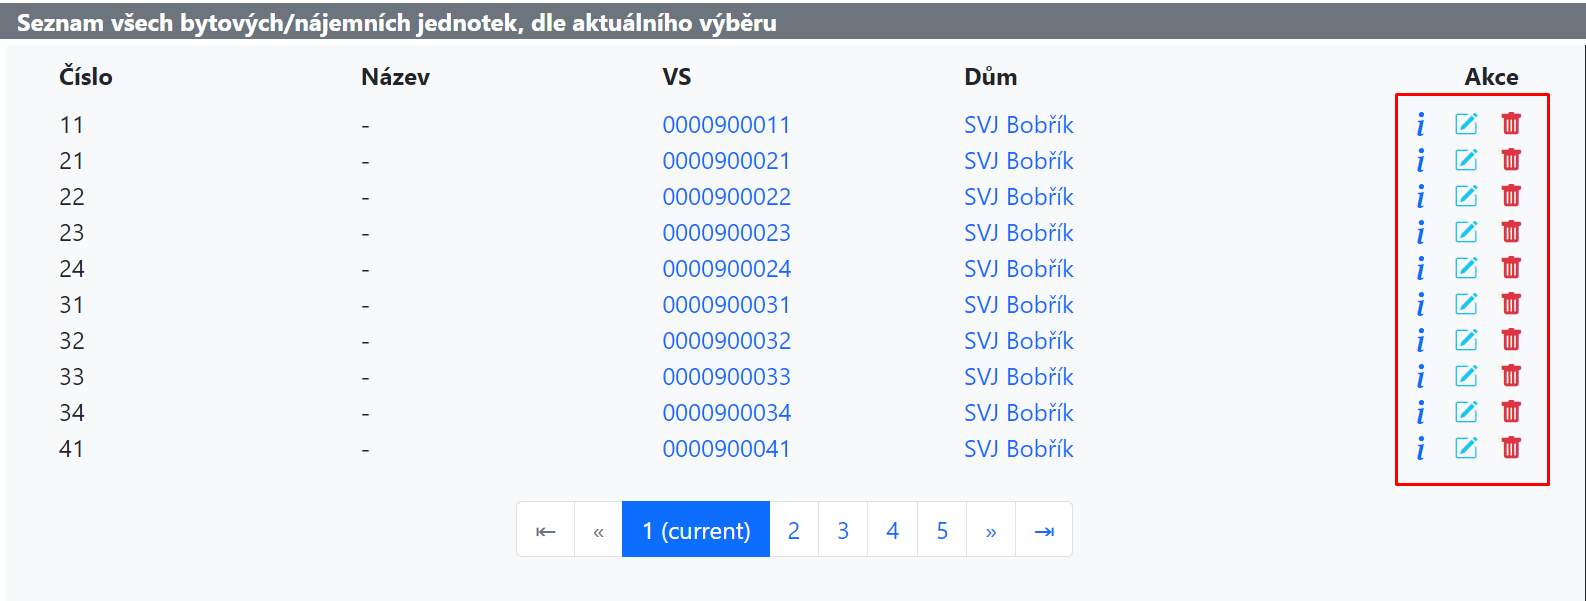
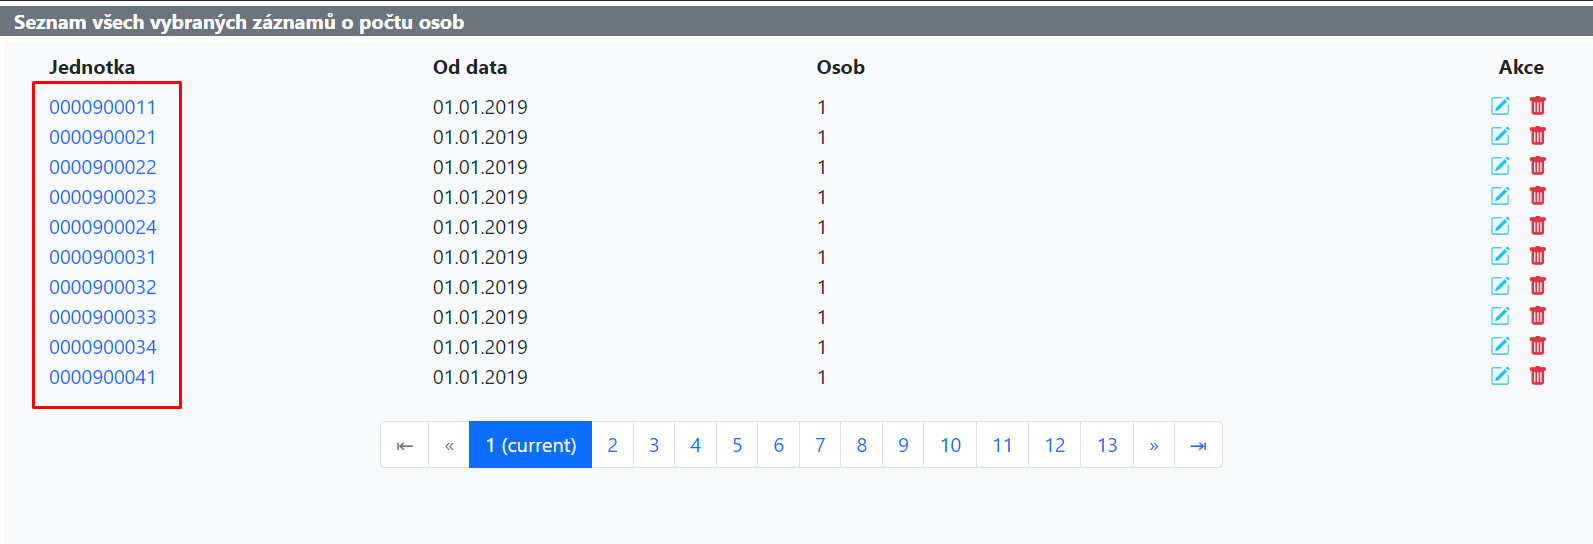
inline menu items finished

diff --git a/docs/misc/inline-menu-items.md b/docs/misc/inline-menu-items.md
@@ -5,15 +5,24 @@ description: Inline Menu Items
 
 An **inline menu** is a colection of links, typically renered as icon buttons. These can be found in pretty much every listing page throughout the application.
 
-Every object, with exceptions of course, has a **detail**, **update** and **delete** views associated with them. For that reason there are usually three icons (inline menu items) for each object in a listing page (as can be observed on the image below).
-
-![Example](example_menu_items.png)
-
 As of the time of writing this (September 2024), the `inline_menu_item.py` defines the following three template tags:
+
+`inline_menu_icon`
+:   Links rendered as icons
+
+`inline_menu_item`
+:   Links rendered as normal links. **Deprecated**
+
+`inline_menu_item_new`
+:   A replacement of the deprecated `inline_menu_item`   
 
 ### Inline Menu Icon
 
 The most widely used tag for inline menu items. The link is rendered as an icon for a better UX experience.
+
+Every object, with exceptions of course, has a **detail**, **update** and **delete** views associated with them. For that reason there are usually three icons (inline menu items) for each object in a listing page (as can be observed on the image below).
+
+![Example icons](example_menu_icons.png)
 
 ```Python title="Function signature"
 def inline_menu_icon(icon_type, url_address, tooltip=None, **kwargs):
@@ -68,4 +77,40 @@ The only mandatory parameters are the `url_address` and `icon_type`.
 
 # Red delete icon (bi bi-trash-fill) with the link /najemnijednotky/bytydelete/1/?sourcecaller=L&referraldumid=1
 {% inline_menu_icon 'delete' 'byty:najemnici-delete' 'Odpojit' get_pk=each.id sourcecaller='L' referraldumid=referral_dum.pk %}
+```
+
+### Inline Menu Item
+
+Inline menu items differ from their icon counterpart only in the way they are presented to the user, not as icons but as regular links (as can be seen on the image below).
+
+![Example items](example_menu_items.png)
+
+```Python title="Function signature"
+def inline_menu_item_new(link_text, url_address, style=None, **kwargs):
+    ...
+```
+
+The only mandatory parameters are the `link_text` and `url_address`.
+
+`link_text`
+:   The label of the link.
+
+`url_address`
+:   A reversible view name.
+
+    As the function accepts kwargs, **query parameters** can be passed in as regular kwargs (i.e. `query_param=value`).
+
+    As for **path parameters**, they just need a prefix of `get_` (i.e. `get_path_param=value`).
+
+`style`
+:   An optional list of classes.
+
+    Might be replaced for a `StyleModifier` in the future.
+
+```HTML title="Examples"
+# Link with the label depending on the value of "each.byt_id.variabilni" and link /najemnijednotky/pocetosoblist/?referralbytid=1
+{% inline_menu_item_new each.byt_id.variabilni 'byty:pocetosob-listing' referralbytid=each.byt_id.pk %}
+
+# Link with the label depending on the value of "each.sluzba.just_name" and link /sluzby/sluzbydefinicedetail/2/
+{% inline_menu_item_new each.sluzba.just_name 'sluzby:sluzbydefinice-detail' get_pk=each.sluzba.pk %}
 ```
